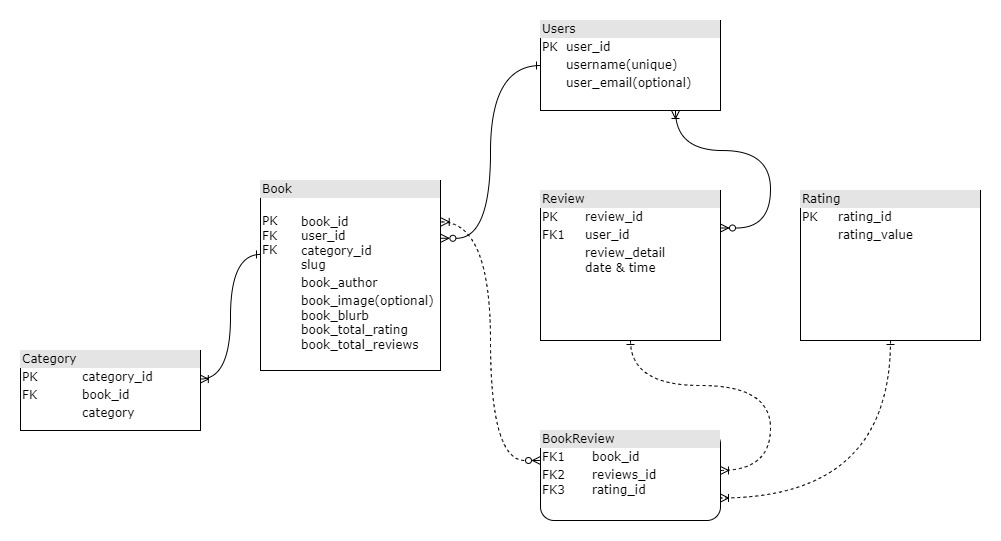
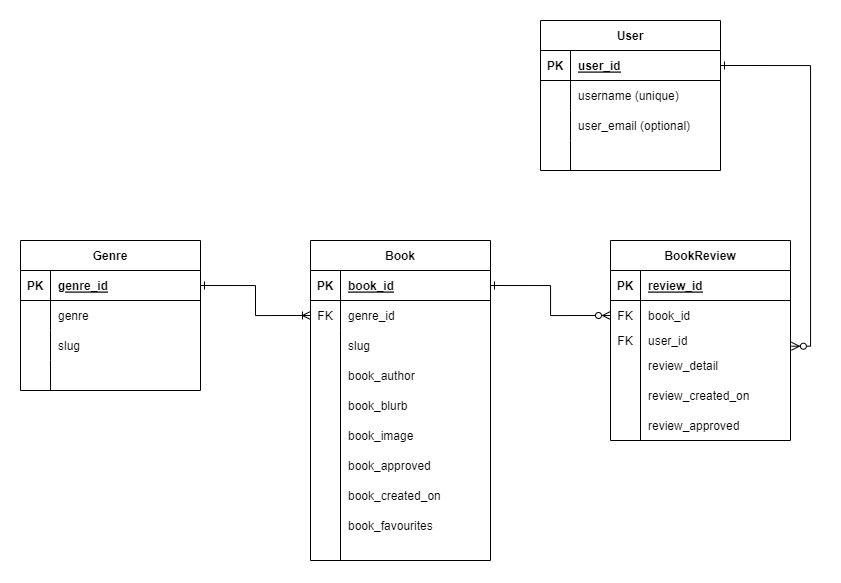
Add database schema image to Database Schema section in README.md

diff --git a/README.md b/README.md
@@ -144,6 +144,7 @@ Development branches were used to complete User Stories. This offered a greater 
 
 ## Database Schema
 
+![Database Schema](docs/database/database-schema.jpg)
 
 ## Site Structure
 
@@ -153,6 +154,17 @@ The Home page, Bookshelf, Login, Signup and Contact pages can be accessed by all
 
 
 ## Design Choices
+
+### Color Scheme
+The final color scheme chosen was a rich dark red with warm cream whites and a magenta and bright purple used as highlights. The main colors were chosen after a lot of research into colors associated with books and reading, with the rich red a color often used in valuable, rich and old books and the cream whites a nod to the parchment color of the pages of books. The magenta and purple colors modernise it a bit
+
+![Site colour scheme](docs/images/color-scheme.png)
+
+### Typography
+
+One font was chosen for this website and that was Courier Prime. Courier Prime is a serif font that looks like a typewriter font, again a nod to the printed word in books.
+
+This gives a very vintage feel to the project but ties in nicely with the color scheme and theme and with the use of letter spacing it slightly modernises the look of the font.
 
 
 [Back to top](<#contents>)
